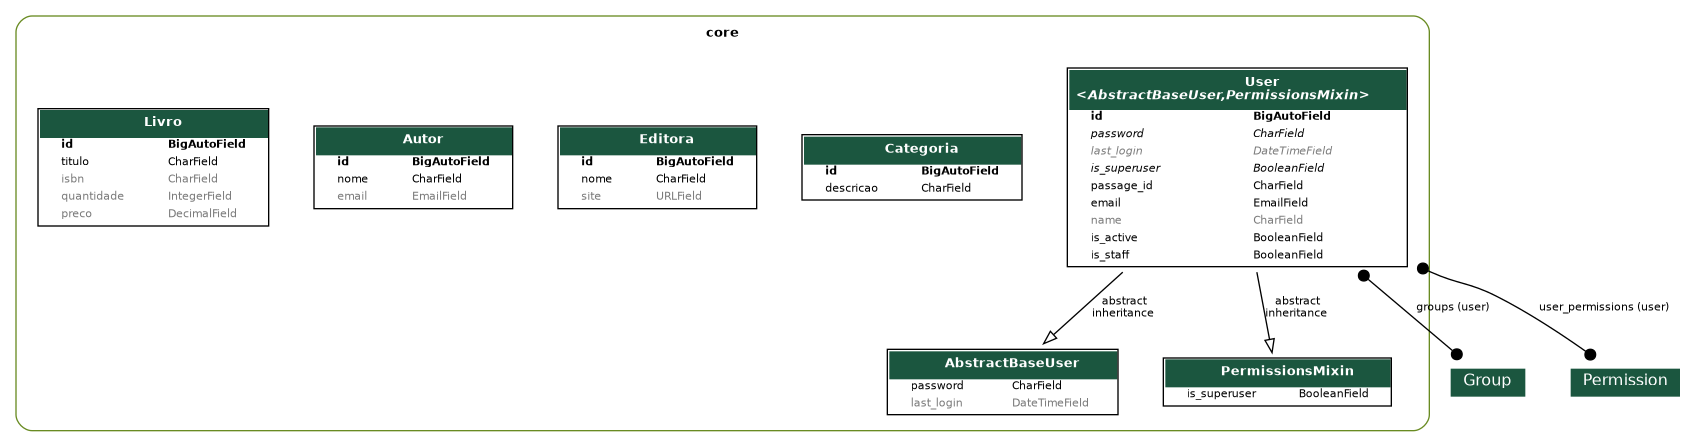
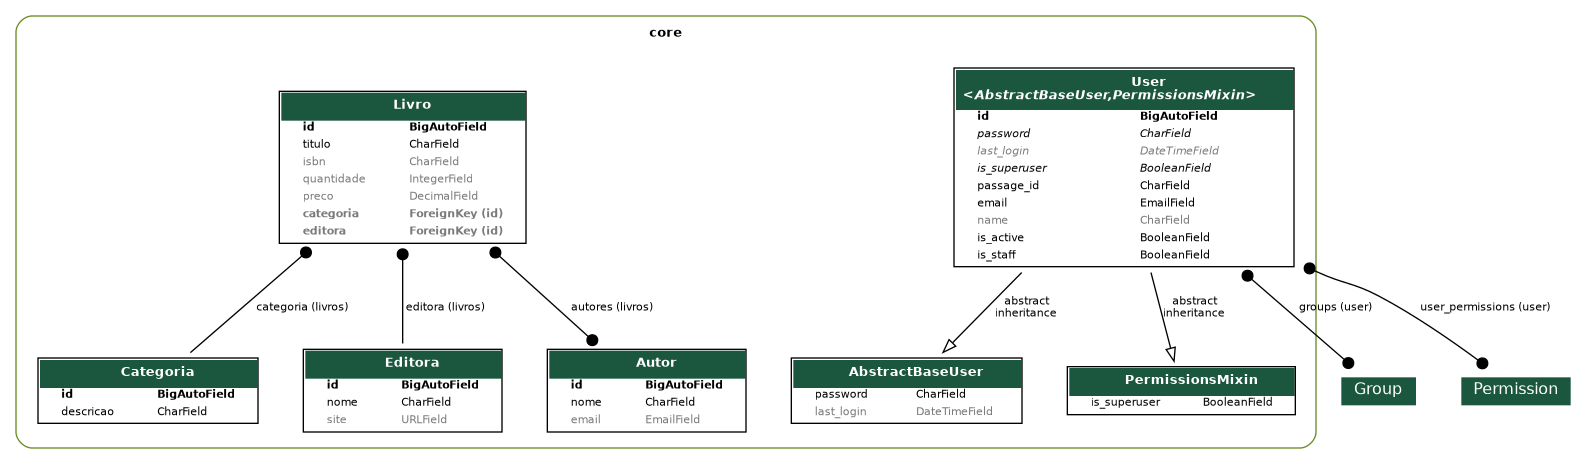
feat: inclusão do relacionamento n para n entre Livro e Autor

diff --git a/core/migrations/0009_livro_categoria_livro_editora.py b/core/migrations/0009_livro_categoria_livro_editora.py
@@ -1,0 +1,24 @@
+# Generated by Django 5.1.7 on 2025-05-28 18:59
+
+import django.db.models.deletion
+from django.db import migrations, models
+
+
+class Migration(migrations.Migration):
+
+    dependencies = [
+        ('core', '0008_livro'),
+    ]
+
+    operations = [
+        migrations.AddField(
+            model_name='livro',
+            name='categoria',
+            field=models.ForeignKey(blank=True, null=True, on_delete=django.db.models.deletion.PROTECT, related_name='livros', to='core.categoria'),
+        ),
+        migrations.AddField(
+            model_name='livro',
+            name='editora',
+            field=models.ForeignKey(blank=True, null=True, on_delete=django.db.models.deletion.PROTECT, related_name='livros', to='core.editora'),
+        ),
+    ]

diff --git a/core/models/livro.py b/core/models/livro.py
@@ -1,6 +1,6 @@
 from django.db import models
 
-from core.models import Categoria, Editora
+from core.models import Categoria, Editora, Autor
 
 class Livro(models.Model):
     titulo = models.CharField(max_length=255)
@@ -11,6 +11,7 @@ class Livro(models.Model):
         Categoria, on_delete=models.PROTECT, related_name="livros", null=True, blank=True
     )
     editora = models.ForeignKey(Editora, on_delete=models.PROTECT, related_name="livros", null=True, blank=True)
+    autores = models.ManyToManyField(Autor, related_name="livros", blank=True)
 
 
     def __str__(self):

diff --git a/core/migrations/0010_livro_autores.py b/core/migrations/0010_livro_autores.py
@@ -1,0 +1,18 @@
+# Generated by Django 5.1.7 on 2025-05-28 18:59
+
+from django.db import migrations, models
+
+
+class Migration(migrations.Migration):
+
+    dependencies = [
+        ('core', '0009_livro_categoria_livro_editora'),
+    ]
+
+    operations = [
+        migrations.AddField(
+            model_name='livro',
+            name='autores',
+            field=models.ManyToManyField(blank=True, related_name='livros', to='core.autor'),
+        ),
+    ]
